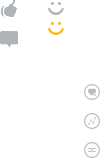
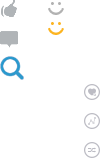
Signed-off-by:add search ghr <ghrwork@163.com>

Changed region(s): [[0.0, 0.3438, 0.24, 0.5]]

diff --git a/index.html b/index.html
@@ -33,19 +33,19 @@
                         </li>
                         <li>
 
-                            <a href="category.html?articleType=web%u524D%u7AEF" >web前端</a>
+                            <a href="category.html?articleType=web%u524D%u7AEF"  target="_Blank" >web前端</a>
                             <div class="hover-bg"></div>
                         </li>
                         <li>
-                            <a href="category.html?articleType=%u79FB%u52A8%u524D%u7AEF">移动前端</a>
+                            <a href="category.html?articleType=%u79FB%u52A8%u524D%u7AEF"  target="_Blank">移动前端</a>
                             <div class="hover-bg"></div>
                         </li>
                         <li>
-                            <a href="category.html?articleType=%u751F%u6D3B%u70B9%u6EF4">生活点滴</a>
+                            <a href="category.html?articleType=%u751F%u6D3B%u70B9%u6EF4"  target="_Blank">生活点滴</a>
                             <div class="hover-bg"></div>
                         </li>
                         <li>
-                            <a href="category.html?articleType=%u6211%u7684%u6536%u85CF">我的收藏</a>
+                            <a href="category.html?articleType=%u6211%u7684%u6536%u85CF"  target="_Blank">我的收藏</a>
                             <div class="hover-bg"></div>
                         </li>
                         <li>

diff --git a/javaScript/index.js b/javaScript/index.js
@@ -1,6 +1,6 @@
 var doc=document;
-//var domain = "http://t.yanchengqu.com/BlogController/";
-var domain = "http://localhost:4936/";
+var domain = "http://t.yanchengqu.com/BlogController/";
+//var domain = "http://localhost:4936/";
 var api = [
     { GetList: domain + "api/ArticalPart/GetList.api", type: "get" },//获取文章列表
     { GetArticalList: domain + "api/ArticalPart/GetArticalList.api", type: "get" },

diff --git a/style/index.css b/style/index.css
@@ -586,10 +586,9 @@ transition:all 0.3s;
 }
 #go{
 position: absolute;
-background: url(../imgs/1.png) no-repeat 4px 4px;
+background: url(../imgs/icon.png) no-repeat 4px -50px;
 right: 0px;
 top: 0px;
-background-size: 24px 24px;
 height: 34px;
 width: 34px;
 
